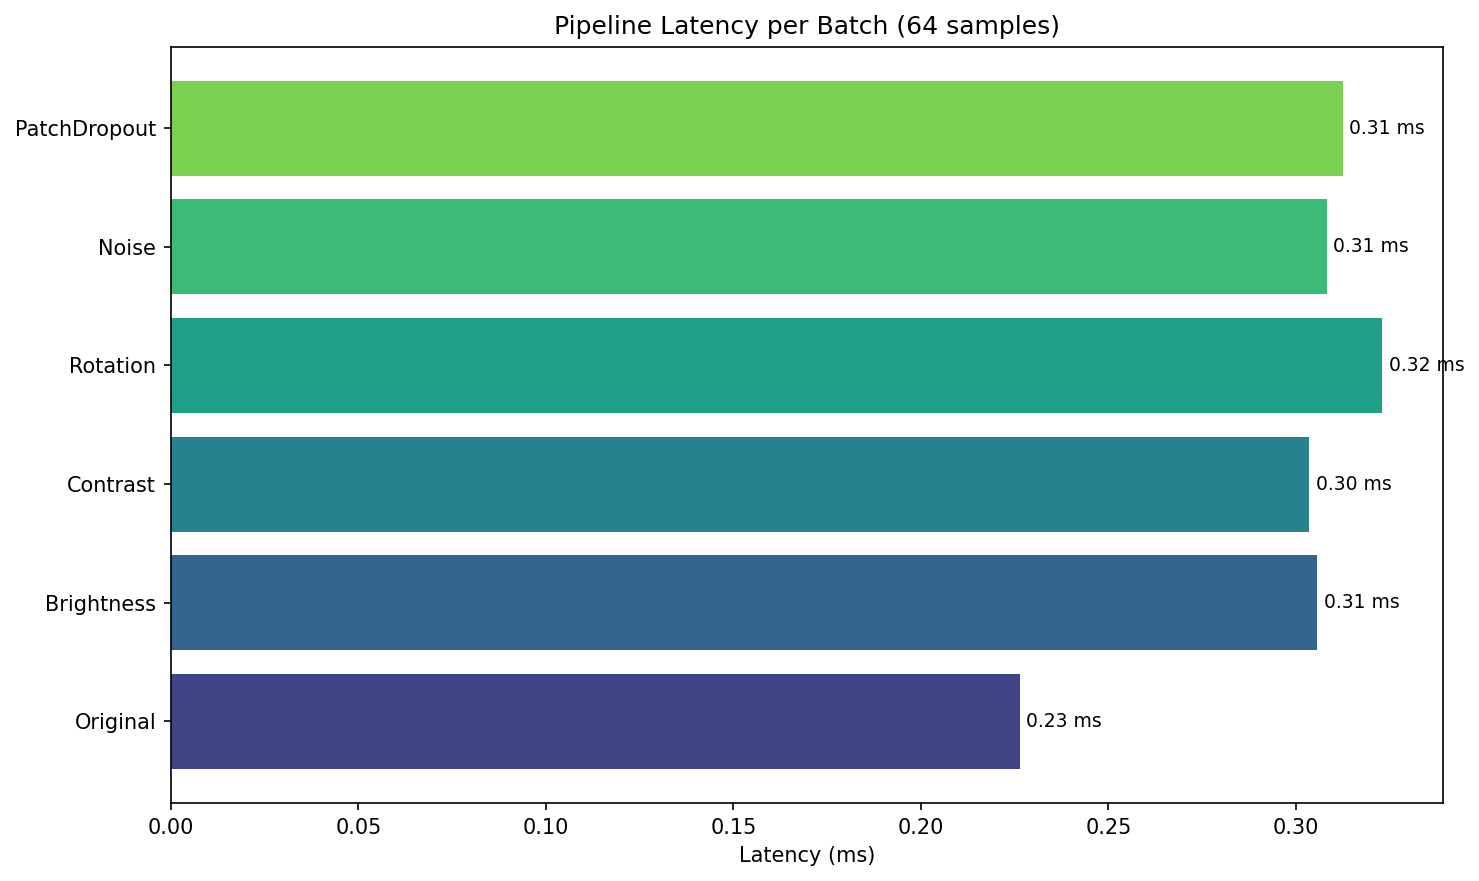
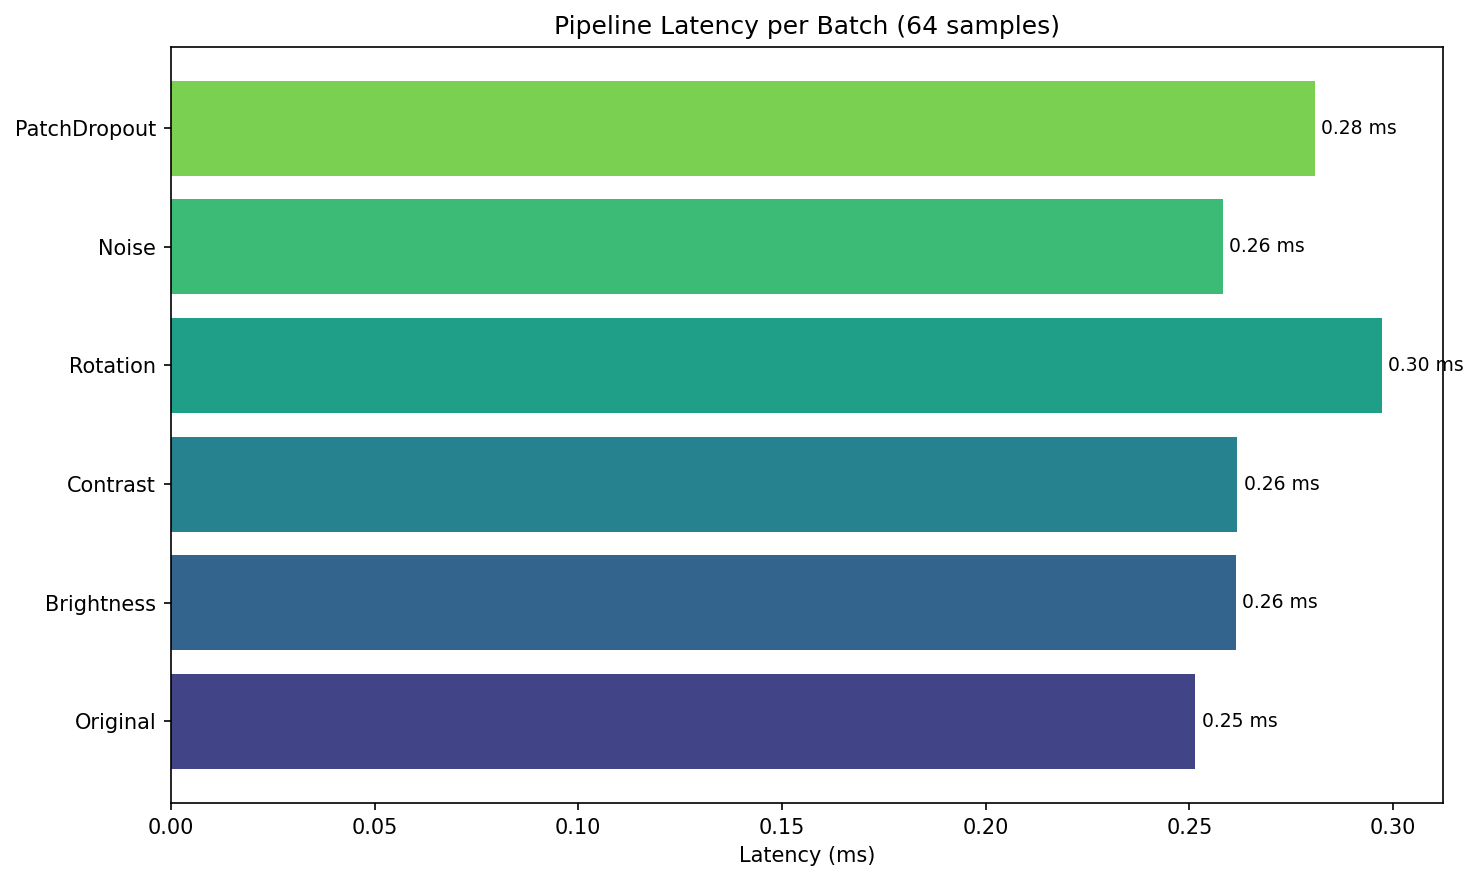
docs(examples): outputs and figures from the TFDS examples' GPU run
The nine examples that read TFDS ran on a Modal L40S from the C5a-3
tree, over CIFAR-10, Fashion-MNIST and MNIST prepared as ArrayRecord.
Every loss, accuracy and sample figure equals the run before the
change; the timings that include building a TFDS source changed, since
the build no longer goes through TensorFlow. The MNIST tutorial's epoch
times and average throughput, the Fashion-MNIST latency table and their
figures, and the sharding guide's throughput figure carry the new run.

diff --git a/docs/examples/core/fashion-augmentation-tutorial.md b/docs/examples/core/fashion-augmentation-tutorial.md
@@ -615,12 +615,12 @@ for name, latency in latencies.items():
 **Terminal Output:**
 ```
 Pipeline latency per batch (ms):
-  Original: 0.23 ms
-  Brightness: 0.31 ms
-  Contrast: 0.30 ms
-  Rotation: 0.32 ms
-  Noise: 0.31 ms
-  PatchDropout: 0.31 ms
+  Original: 0.25 ms
+  Brightness: 0.26 ms
+  Contrast: 0.26 ms
+  Rotation: 0.30 ms
+  Noise: 0.26 ms
+  PatchDropout: 0.28 ms
 ```
 
 Plot the latency comparison:
@@ -737,12 +737,12 @@ flowchart TB
 
 | Pipeline | Parameter | Latency |
 |----------|-----------|---------|
-| Original (preprocess only) | - | 0.23 ms |
-| Brightness | ±0.15 | 0.31 ms |
-| Contrast | 0.85-1.15x | 0.30 ms |
-| Rotation | ±10° | 0.32 ms |
-| Noise | std=0.1 | 0.31 ms |
-| PatchDropout | 2×6×6 | 0.31 ms |
+| Original (preprocess only) | - | 0.25 ms |
+| Brightness | ±0.15 | 0.26 ms |
+| Contrast | 0.85-1.15x | 0.26 ms |
+| Rotation | ±10° | 0.30 ms |
+| Noise | std=0.1 | 0.26 ms |
+| PatchDropout | 2×6×6 | 0.28 ms |
 
 The augmented pipelines take 0.30 ms to 0.32 ms per batch against 0.23 ms for the
 preprocessing-only pipeline: at this batch size most of the per-batch cost is the pipeline

diff --git a/docs/examples/core/mnist-tutorial.md b/docs/examples/core/mnist-tutorial.md
@@ -531,7 +531,7 @@ Starting training...
 Epoch 1/3:
   Train loss: 0.5495
   Test accuracy: 93.85%
-  Time: 20.0s
+  Time: 8.8s
 
   Epoch 2, Batch 0: loss=0.2300
   Epoch 2, Batch 20: loss=0.1549
@@ -540,7 +540,7 @@ Epoch 1/3:
 Epoch 2/3:
   Train loss: 0.1559
   Test accuracy: 96.35%
-  Time: 16.5s
+  Time: 1.7s
 
   Epoch 3, Batch 0: loss=0.1529
   Epoch 3, Batch 20: loss=0.0933
@@ -549,7 +549,7 @@ Epoch 2/3:
 Epoch 3/3:
   Train loss: 0.1021
   Test accuracy: 96.90%
-  Time: 15.6s
+  Time: 1.7s
 
 Training complete!
 ```
@@ -727,8 +727,8 @@ Saved: docs/assets/images/examples/cv-mnist-throughput.png
 | Metric | Value |
 |--------|-------|
 | Final Test Accuracy | 96.90% (epoch 3) |
-| Average Throughput | 55985 samples/s per batch request (GPU, the throughput figure's average) |
-| Training Time per Epoch | 15.6s to 20.0s (GPU) |
+| Average Throughput | 62000 samples/s per batch request (GPU, the throughput figure's average) |
+| Training Time per Epoch | 1.7s to 8.8s (GPU; the first epoch includes compilation) |
 | Model Parameters | ~421k |
 
 ### Key Takeaways
